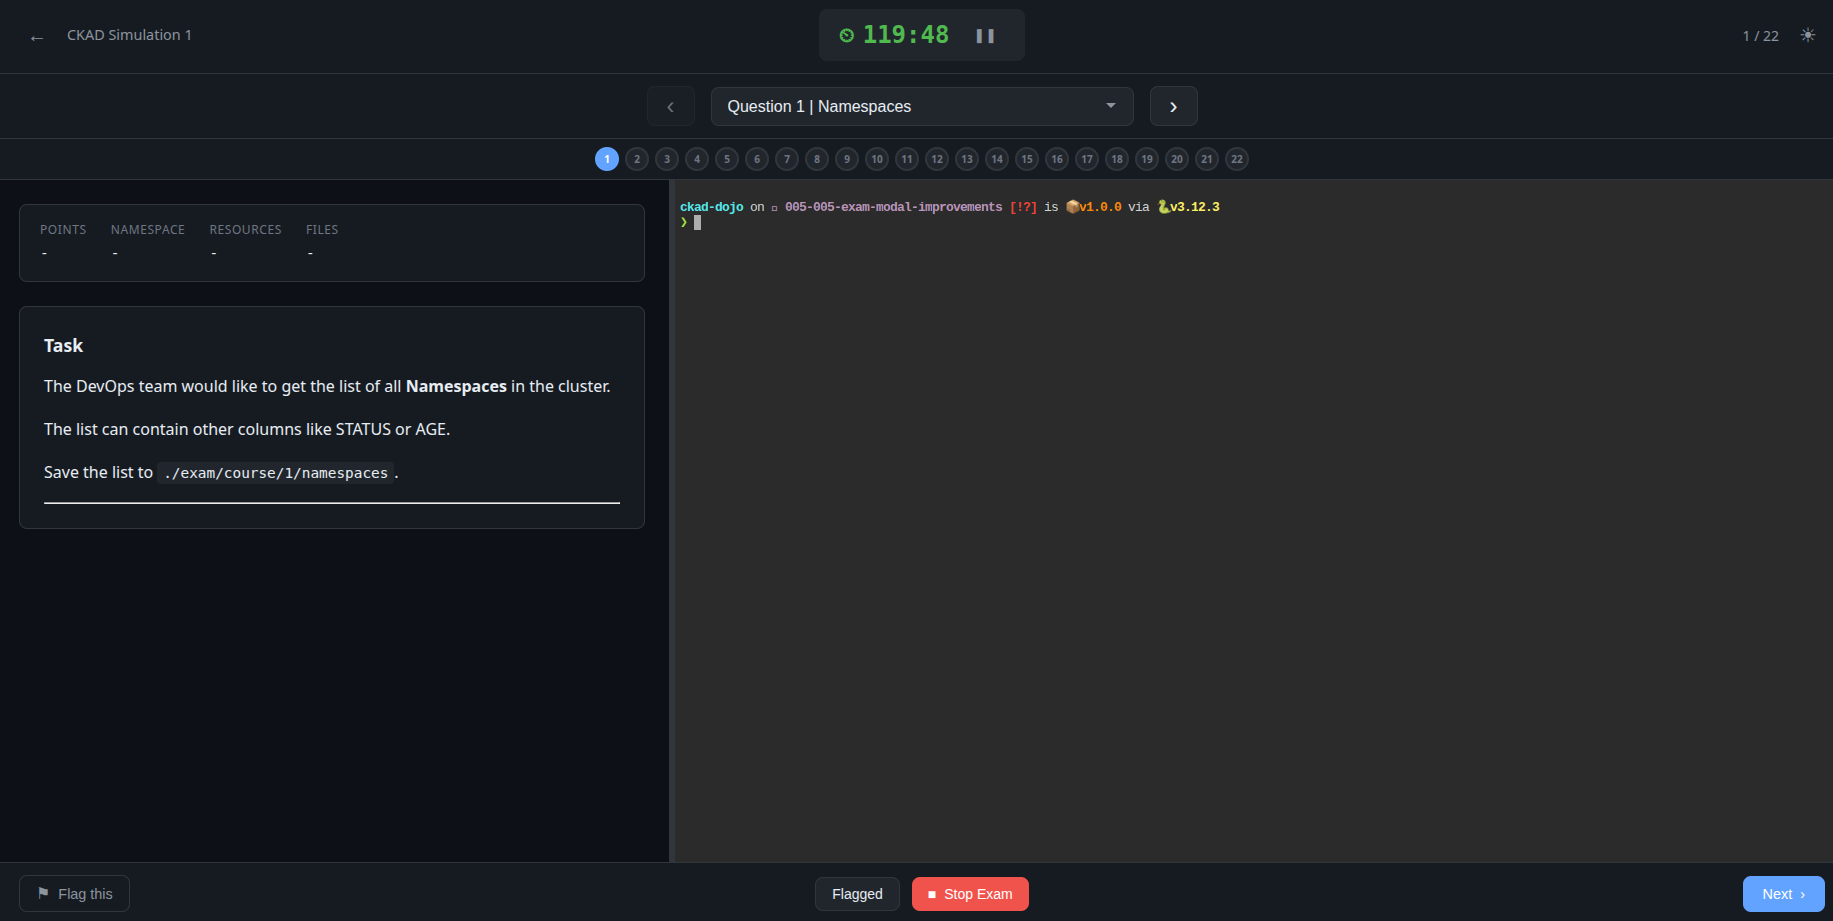
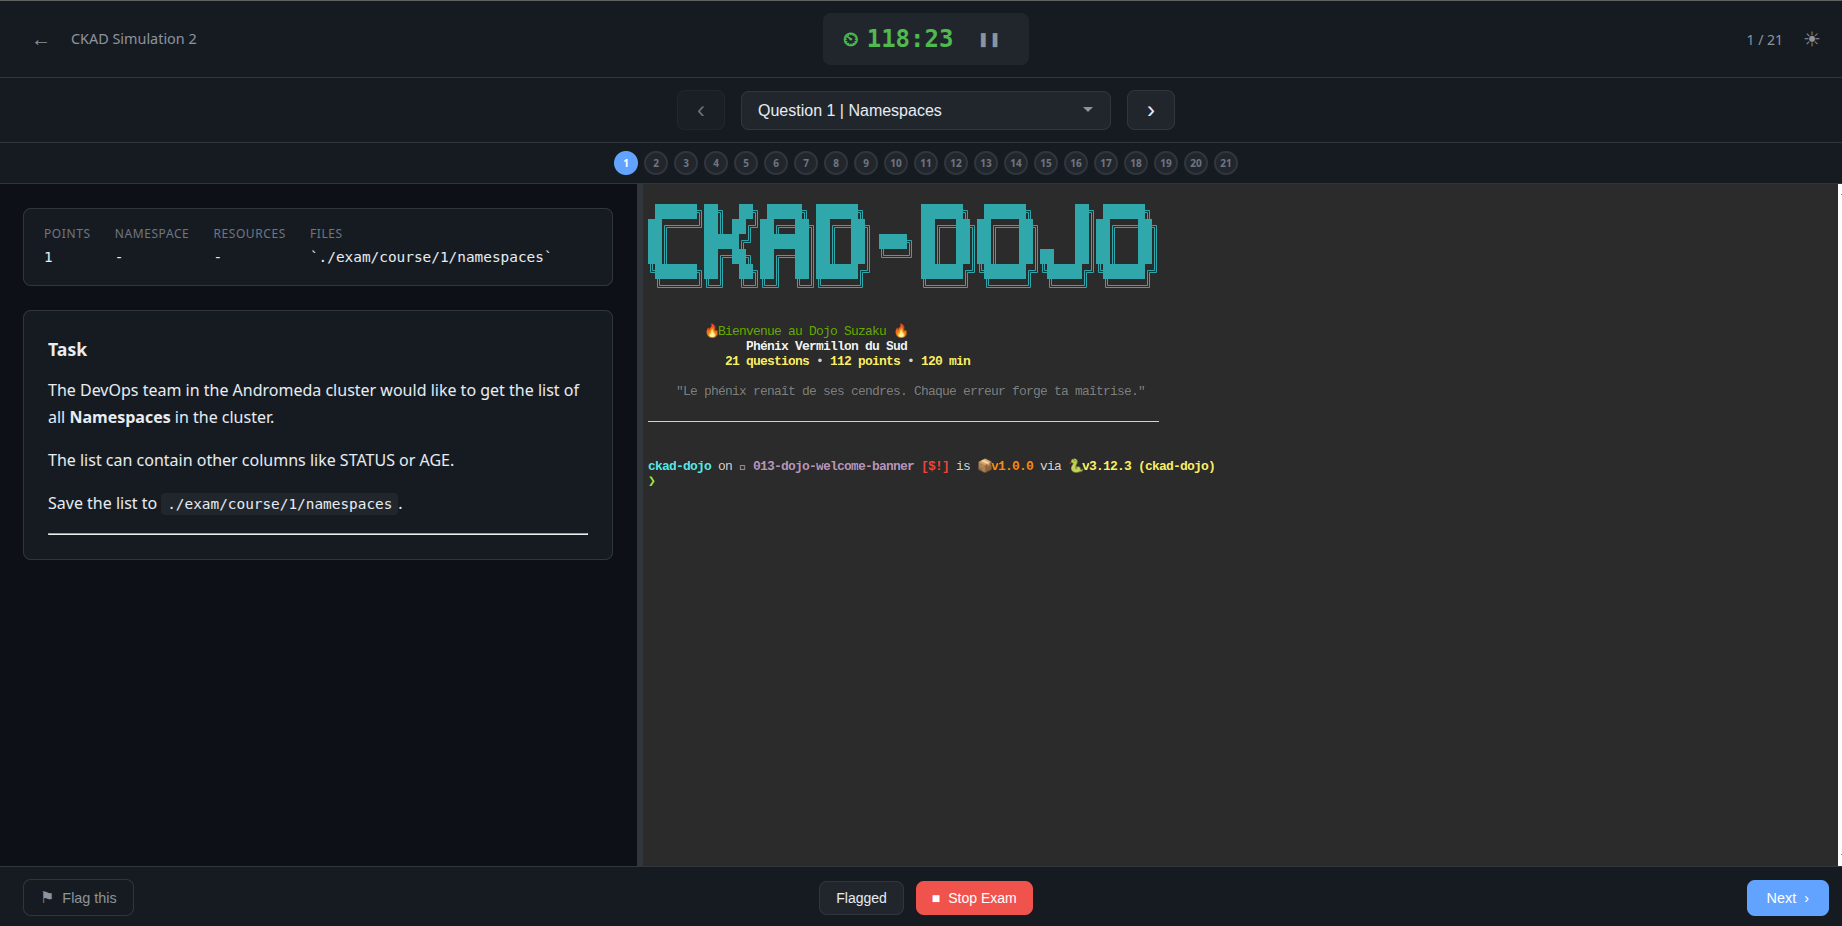
complement

diff --git a/CLAUDE.md b/CLAUDE.md
@@ -158,6 +158,8 @@ score_q1() {
 - Python 3.8+ (server), JavaScript ES6+ (frontend), Bash 4.0+ (scoring scripts) + Python standard library only (http.server, json, re), vanilla JavaScript, marked.js, highlight.js (011-score-details)
 - N/A (in-memory state only) (011-score-details)
 - Bash 4.0+ (scripts), Python 3.8+ (web server), JavaScript ES6+ (frontend) + Python standard library only (http.server, json, re), vanilla JavaScript, marked.js, highlight.js (012-fix-score-expansion)
+- Bash 4.0+ (scripts), Python 3.8+ (web server) + ttyd (terminal), existing ASCII art from ckad_dojo.py (013-dojo-welcome-banner)
+- N/A (configuration in exam.conf files) (013-dojo-welcome-banner)
 
 - Bash 4.0+ (scripts)
 - Python 3.8+ (web server, standard library only)
